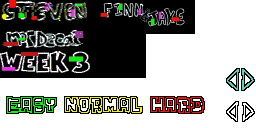
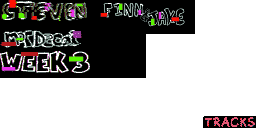
amog

diff --git a/src/menu.c b/src/menu.c
@@ -23,6 +23,10 @@
 
 #include "stage.h"
 
+#define mordecai ((void *)1)
+#define week3 ((void *)2)
+#define finnjake ((void *)3)
+
 //Menu messages
 static const char *funny_messages[][2] = {
 	{"PSX PORT BY CUCKYDEV", "YOU KNOW IT"},
@@ -214,54 +218,69 @@ static void Menu_DrawBack(boolean flash, s32 scroll, u8 r0, u8 g0, u8 b0, u8 r1,
 		Gfx_DrawTexCol(&menu.tex_back, &back_src, &back_dst, r1, g1, b1);
 }
 
-static void Menu_DifficultySelector(s32 x, s32 y)
-{	
-	//Draw difficulty arrows
-	static const RECT arrow_src[2][2] = {
-		{{224, 64, 16, 32}, {224, 96, 16, 32}}, //left
-		{{240, 64, 16, 32}, {240, 96, 16, 32}}, //right
-	};
-	
-	Gfx_BlitTex(&menu.tex_story, &arrow_src[0][(pad_state.held & PAD_LEFT) != 0], x - 40 - 16, y - 16);
-	Gfx_BlitTex(&menu.tex_story, &arrow_src[1][(pad_state.held & PAD_RIGHT) != 0], x + 40, y - 16);
-	
-	//Draw difficulty
-	static const RECT diff_srcs[] = {
-		{  0, 96, 64, 18},
-		{ 64, 96, 80, 18},
-		{144, 96, 64, 18},
-	};
-	
-	const RECT *diff_src = &diff_srcs[menu.page_param.stage.diff];
-	Gfx_BlitTex(&menu.tex_story, diff_src, x - (diff_src->w >> 1), y - 9 + ((pad_state.press & (PAD_LEFT | PAD_RIGHT)) != 0));
-}
+int ax, ay;
 
+static void Menu_DifficultySelector()
+{	
+	menu.font_arial.draw(&menu.font_arial, 
+		"CORRUPTED",
+		294, 
+		15, 
+		FontAlign_Right
+	);
+
+	RECT bracketl_src = {242, 105, 6, 10}; //left
+	RECT bracketl_dst = {216, 15, 6, 10}; //left
+	RECT bracketr_src = {249, 105, 6, 10}; //right
+	RECT bracketr_dst = {295, 15, 6, 10}; //right
+
+	Gfx_DrawTex(&menu.tex_story, &bracketl_src, &bracketl_dst);
+	Gfx_DrawTex(&menu.tex_story, &bracketr_src, &bracketr_dst);
+
+	RECT black_src = {113, 65, 33, 13}; 
+	RECT black_dst = {198, -22, 143, 65};
+
+	Gfx_BlendTex(&menu.tex_story, &black_src, &black_dst, 1);
+	
+
+	FntPrint("x%d y%d", ax,ay);
+
+	if (pad_state.press & PAD_LEFT)
+		ax--;
+	if (pad_state.press & PAD_RIGHT)
+		ax ++;
+	if (pad_state.press & PAD_UP)
+		ay--;
+	if (pad_state.press & PAD_DOWN)
+		ay++;
+	
+}
 static void Menu_DrawWeek(const char *week, s32 x, s32 y)
 {
 	//Draw label
 	if (week == NULL)
 	{
-		//Tutorial
-		RECT label_src = {0, 0, 112, 32};
+		//steven
+		RECT label_src = {0, 0, 95, 24};
 		Gfx_BlitTex(&menu.tex_story, &label_src, x, y);
 	}
-	else
+	else if (week == mordecai)
 	{
-		//Week
-		RECT label_src = {0, 32, 80, 32};
+		//mordecai
+		RECT label_src = {0, 27, 94, 24};
 		Gfx_BlitTex(&menu.tex_story, &label_src, x, y);
-		
-		//Number
-		x += 80;
-		for (; *week != '\0'; week++)
-		{
-			//Draw number
-			u8 i = *week - '0';
-			
-			RECT num_src = {128 + ((i & 3) << 5), ((i >> 2) << 5), 32, 32};
-			Gfx_BlitTex(&menu.tex_story, &num_src, x, y);
-			x += 32;
-		}
+	}
+	else if (week == week3)
+	{
+		//Week 3
+		RECT label_src = {0, 51, 92, 24};
+		Gfx_BlitTex(&menu.tex_story, &label_src, x, y);
+	}
+	else if (week == finnjake)
+	{
+		//finn and jake
+		RECT label_src = {100, 0, 90, 30};
+		Gfx_BlitTex(&menu.tex_story, &label_src, x, y);
 	}
 }
 
@@ -643,16 +662,12 @@ void Menu_Tick(void)
 				const char *week;
 				StageId stage;
 				const char *name;
-				const char *tracks[3];
+				const char *tracks[4];
 			} menu_options[] = {
-				{NULL, StageId_1_4, "TUTORIAL", {"TUTORIAL", NULL, NULL}},
-				{"1", StageId_1_1, "DADDY DEAREST", {"BOPEEBO", "FRESH", "DADBATTLE"}},
-				{"2", StageId_2_1, "SPOOKY MONTH", {"SPOOKEEZ", "SOUTH", "MONSTER"}},
-				{"3", StageId_3_1, "PICO", {"PICO", "PHILLY NICE", "BLAMMED"}},
-				{"4", StageId_4_1, "MOMMY MUST MURDER", {"SATIN PANTIES", "HIGH", "MILF"}},
-				{"5", StageId_5_1, "RED SNOW", {"COCOA", "EGGNOG", "WINTER HORRORLAND"}},
-				{"6", StageId_6_1, "HATING SIMULATOR", {"SENPAI", "ROSES", "THORNS"}},
-				{"7", StageId_7_1, "TANKMAN", {"UGH", "GUNS", "STRESS"}},
+				{NULL, StageId_1_1, "HERE WE ARE IN THE FUTURE", {"SAVE THE DAY", "GLITCHED GEM", "MY FRIENDS", "THE CHANGE"}},
+				{mordecai, StageId_1_1, "GOING BACK TO WORK", {"OVERWORKED", NULL, NULL, NULL}},
+				{week3, StageId_2_1, "FUNKY CORRUPTION", {"LAST SPOOKTOBER", "GUNSHOT", "BLUE BALLED", NULL}},
+				{finnjake, StageId_3_1, "ITS ADVENTURE TIME", {"CORRUPTED HERO", "BROTHERLEY BOND", "GUMMY SUBSTANCE", "TOGETHER FOREVER"}},
 			};
 			
 			//Initialize page
@@ -729,12 +744,20 @@ void Menu_Tick(void)
 			const char * const *trackp = menu_options[menu.select].tracks;
 			for (size_t i = 0; i < COUNT_OF(menu_options[menu.select].tracks); i++, trackp++)
 			{
+				RECT tracks_src = {204, 116, 52, 12};
+				RECT tracks_dst = {32, 126, 52, 12};
+
+				Gfx_DrawTex(&menu.tex_story, &tracks_src, &tracks_dst);
+
 				if (*trackp != NULL)
-					menu.font_bold.draw(&menu.font_bold,
+					menu.font_arial.draw_col(&menu.font_arial,
 						*trackp,
-						SCREEN_WIDTH - 16,
+						62,
 						SCREEN_HEIGHT - (4 * 24) + (i * 24),
-						FontAlign_Right
+						FontAlign_Center,
+						209 >> 1,
+						87  >> 1,
+						119 >> 1
 					);
 			}
 			
@@ -756,7 +779,7 @@ void Menu_Tick(void)
 						continue;
 					if (y >= SCREEN_HEIGHT)
 						break;
-					Menu_DrawWeek(menu_options[i].week, 48, y);
+					Menu_DrawWeek(menu_options[i].week, SCREEN_WIDTH / 3, y);
 				}
 			}
 			else if (animf_count & 2)

diff --git a/src/stage.c b/src/stage.c
@@ -1046,10 +1046,13 @@ static void Stage_DrawNotes(void)
 							note_dst.h = -note_dst.h;
 						}
 						//draw for opponent
-						if (stage.middlescroll && note->type & NOTE_FLAG_OPPONENT)
-							Stage_BlendTex(&stage.tex_hud0, &note_src, &note_dst, stage.bump, 1);
-						else if (note->type & NOTE_FLAG_MINE)
+						
+						if (stage.middlescroll == 0 && note->type & NOTE_FLAG_MINE)
 							Stage_DrawTex(&stage.tex_hud0, &note_mine_src, &note_dst, stage.bump);
+						else if (stage.middlescroll && note->type & NOTE_FLAG_MINE)
+							Stage_BlendTex(&stage.tex_hud0, &note_mine_src, &note_dst, stage.bump, 1);
+						else if (stage.middlescroll && note->type & NOTE_FLAG_OPPONENT)
+							Stage_BlendTex(&stage.tex_hud0, &note_src, &note_dst, stage.bump, 1);
 						else
 							Stage_DrawTex(&stage.tex_hud0, &note_src, &note_dst, stage.bump);
 					}
@@ -1078,13 +1081,12 @@ static void Stage_DrawNotes(void)
 						note_dst.w = note_src.w << FIXED_SHIFT;
 						note_dst.h = (next_y - y) - clip;
 						
-						if (stage.downscroll)
-							note_dst.y = -note_dst.y - note_dst.h;
-						//draw for opponent
-						if (stage.middlescroll && note->type & NOTE_FLAG_OPPONENT)
-							Stage_BlendTex(&stage.tex_hud0, &note_src, &note_dst, stage.bump, 1);
-						else if (note->type & NOTE_FLAG_MINE)
+						if (stage.middlescroll == 0 && note->type & NOTE_FLAG_MINE)
 							Stage_DrawTex(&stage.tex_hud0, &note_mine_src, &note_dst, stage.bump);
+						else if (stage.middlescroll && note->type & NOTE_FLAG_MINE)
+							Stage_BlendTex(&stage.tex_hud0, &note_mine_src, &note_dst, stage.bump, 1);
+						else if (stage.middlescroll && note->type & NOTE_FLAG_OPPONENT)
+							Stage_BlendTex(&stage.tex_hud0, &note_src, &note_dst, stage.bump, 1);
 						else
 							Stage_DrawTex(&stage.tex_hud0, &note_src, &note_dst, stage.bump);
 					}
